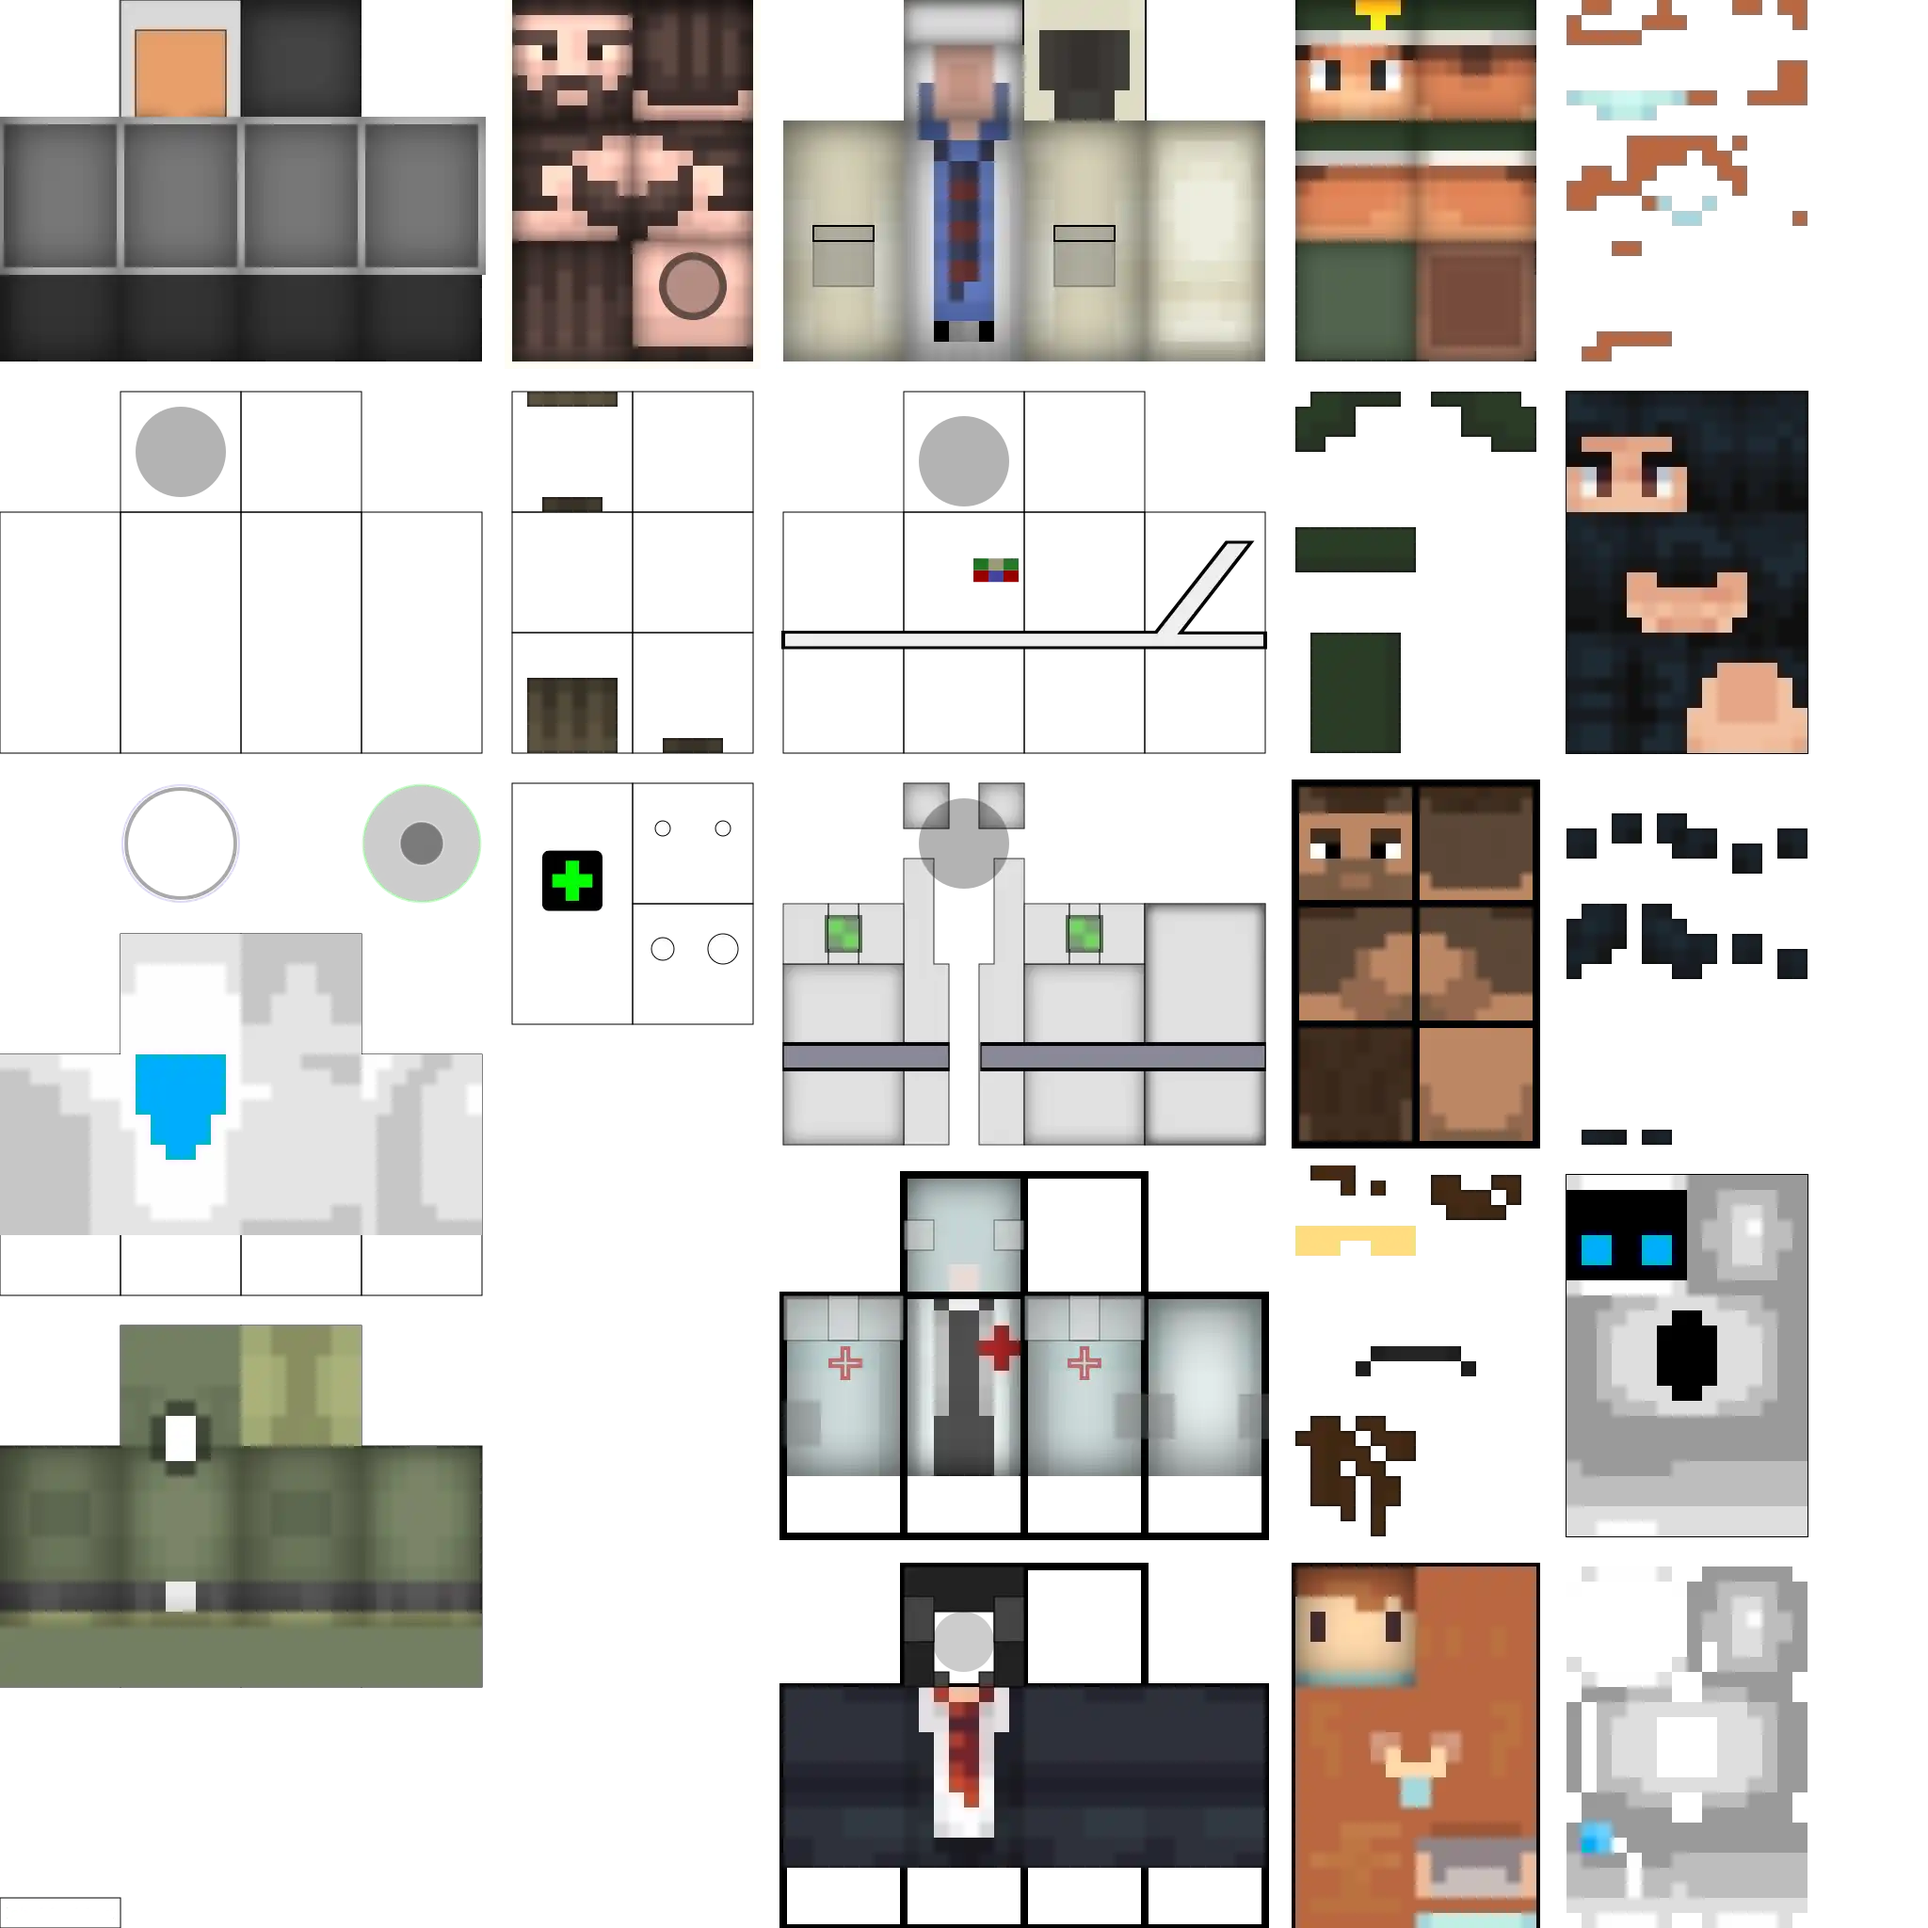
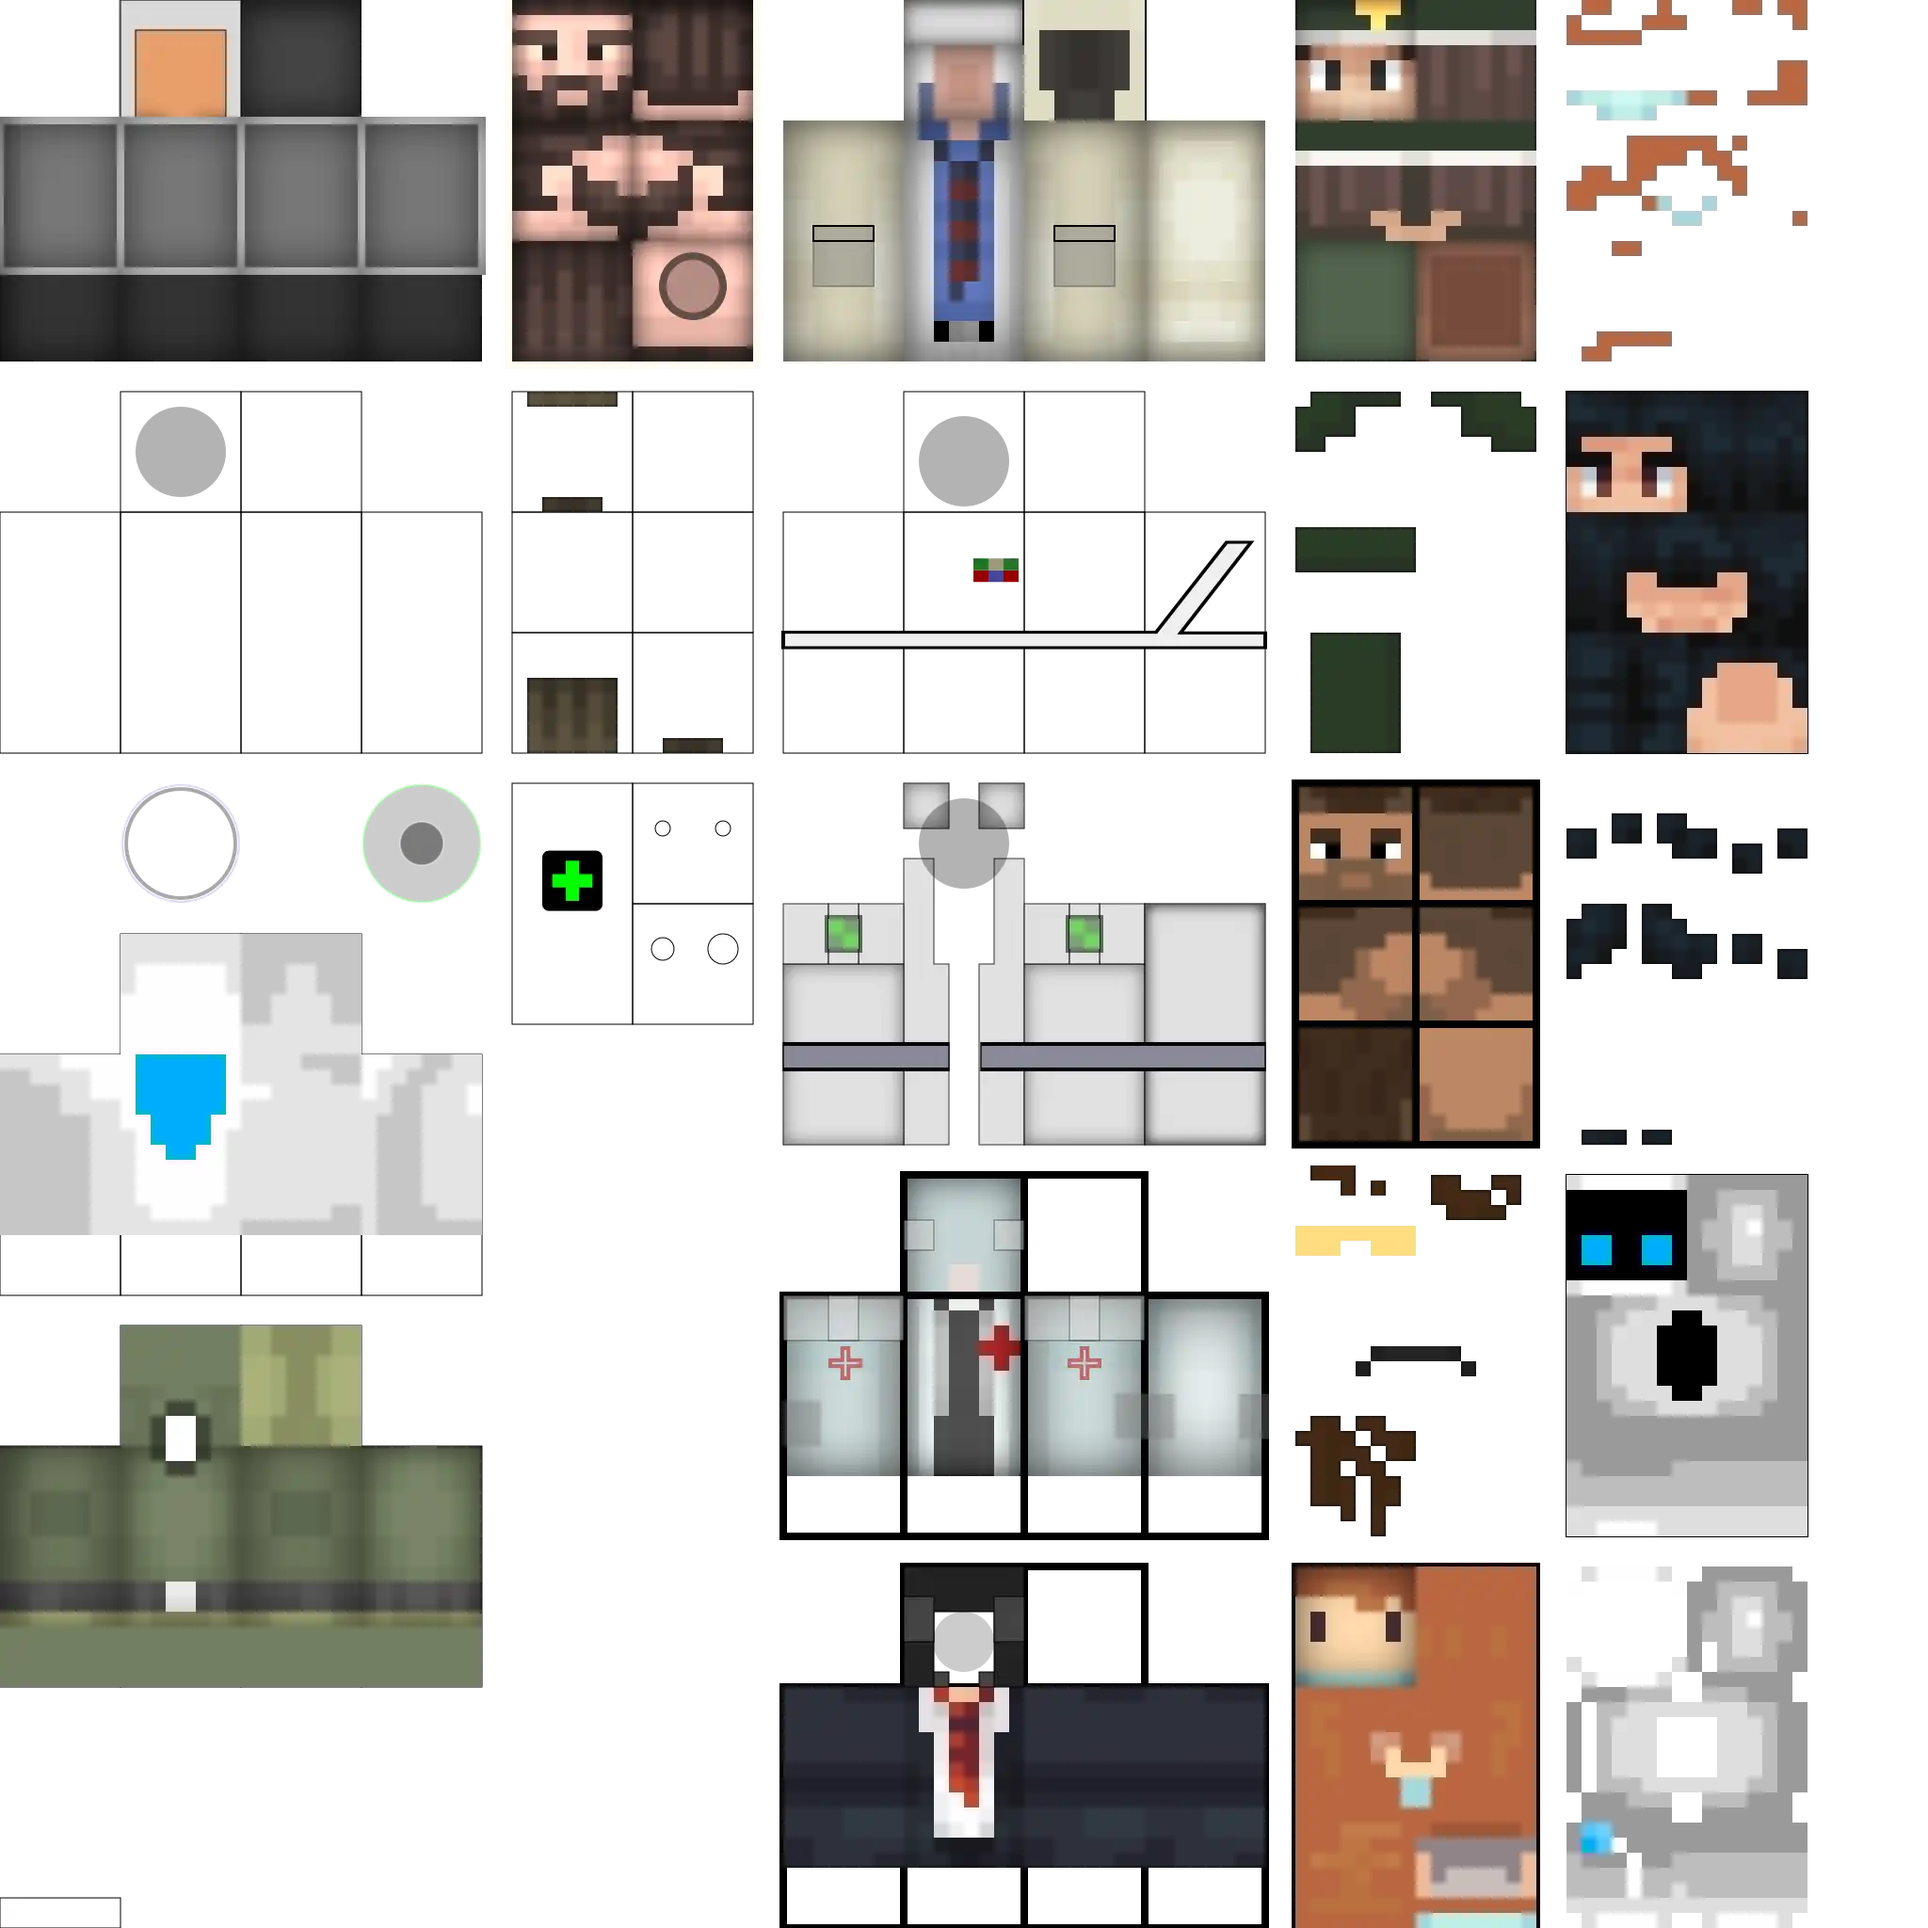
feat: tweak soldier-0 head (more hair)

Changed region(s): [[0.6562, 0.0, 0.8125, 0.125]]

diff --git a/README.md b/README.md
@@ -302,6 +302,7 @@ We'll try to re-map publicly available Minecraft Skins.
   - ✅ https://namemc.com/skin/45461862ef51524e (body)
   - ❌ https://namemc.com/skin/e5aebae082bea6ec
   - ✅ https://namemc.com/skin/5556dc93d001adea (head)
+  - ✅ https://namemc.com/skin/f63b01435f055033 (head)
 - https://namemc.com/minecraft-skins/tag/scientist
   - ✅ https://namemc.com/skin/7161dce64d6b12be
   - ❌ https://namemc.com/skin/72474583457b91c0
